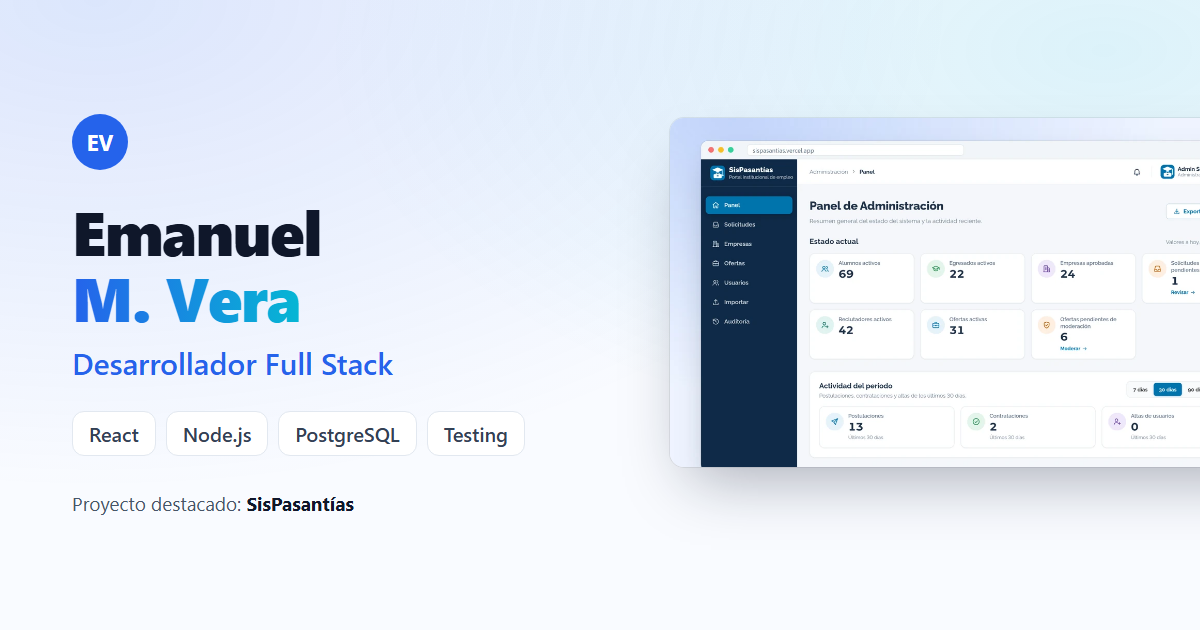
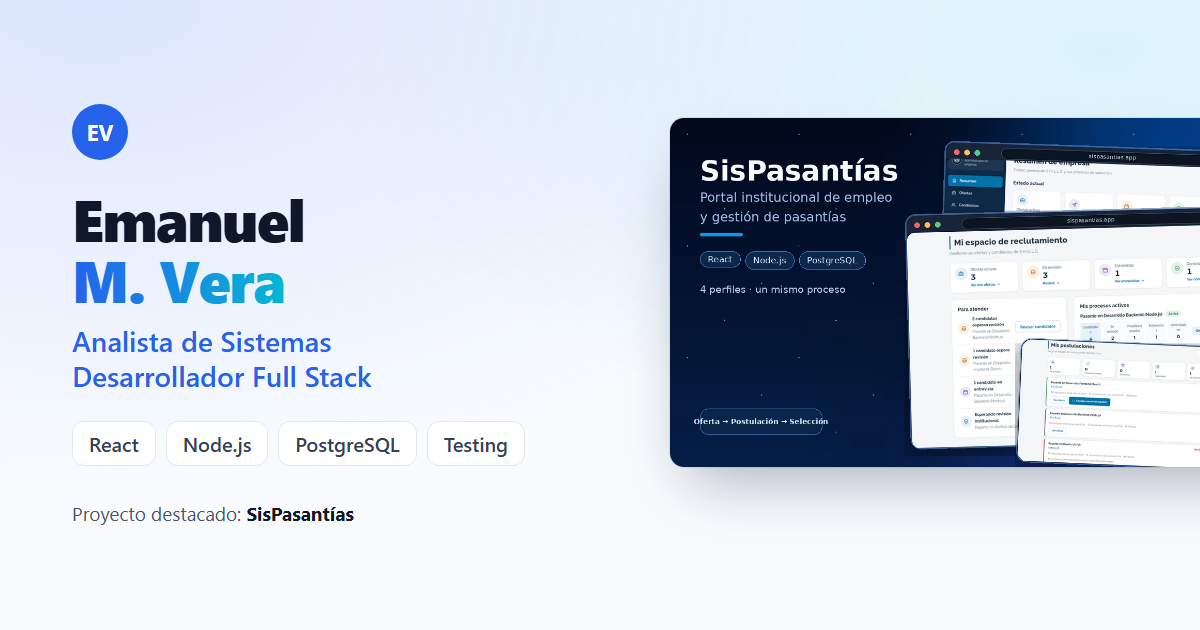
feat(seo): metadata de Analista de Sistemas, sitemap/robots y URL del sitio configurable
- SITE_URL en data/site.ts (NEXT_PUBLIC_SITE_URL, por defecto emanuelmvera.github.io)

- sitemap.xml y robots.txt estáticos generados desde SITE_URL

- title, description y keywords nuevos; imagen OG con el rol actualizado

diff --git a/app/layout.tsx b/app/layout.tsx
@@ -1,16 +1,29 @@
 import type { Metadata } from "next";
 import { Footer } from "@/components/Footer";
 import { Header } from "@/components/Header";
+import { SITE_URL } from "@/data/site";
 import "./globals.css";
 
-const title = "Emanuel M. Vera | Desarrollador Full Stack";
+const title = "Emanuel M. Vera | Analista de Sistemas y Desarrollador Full Stack";
 const description =
-  "Portfolio de Emanuel M. Vera, desarrollador full stack con proyectos en React, Node.js, PostgreSQL, APIs, testing y sistemas web.";
+  "Portfolio de Emanuel M. Vera. Analista de Sistemas y desarrollador Full Stack con experiencia en React, Node.js, PostgreSQL, testing, seguridad y desarrollo de aplicaciones web completas.";
 
 export const metadata: Metadata = {
-  metadataBase: new URL("https://emanuelmvera.github.io"),
+  metadataBase: new URL(SITE_URL),
   title,
   description,
+  keywords: [
+    "Emanuel Vera",
+    "Analista de Sistemas",
+    "Full Stack Developer",
+    "React",
+    "Node.js",
+    "PostgreSQL",
+    "Testing",
+    "Software Development",
+    "Argentina",
+  ],
+  authors: [{ name: "Emanuel M. Vera" }],
   alternates: { canonical: "/" },
   icons: {
     icon: [
@@ -31,7 +44,7 @@ export const metadata: Metadata = {
         url: "/images/og/portfolio-og.png",
         width: 1200,
         height: 630,
-        alt: "Emanuel M. Vera — Desarrollador Full Stack. Proyecto destacado: SisPasantías",
+        alt: "Emanuel M. Vera — Analista de Sistemas y Desarrollador Full Stack. Proyecto destacado: SisPasantías",
       },
     ],
   },

diff --git a/data/site.ts b/data/site.ts
@@ -1,0 +1,6 @@
+// URL pública del sitio. Para migrar a un dominio propio (p. ej. https://emanuelmvera.com)
+// basta con definir NEXT_PUBLIC_SITE_URL en el build; metadata, sitemap y robots la usan.
+export const SITE_URL = (process.env.NEXT_PUBLIC_SITE_URL ?? "https://emanuelmvera.github.io").replace(/\/$/, "");
+
+// Rutas públicas (con barra final, coherente con trailingSlash: true).
+export const SITE_ROUTES = ["/", "/proyectos/sispasantias/"];

diff --git a/app/sitemap.ts b/app/sitemap.ts
@@ -1,0 +1,12 @@
+import type { MetadataRoute } from "next";
+import { SITE_ROUTES, SITE_URL } from "@/data/site";
+
+export const dynamic = "force-static";
+
+export default function sitemap(): MetadataRoute.Sitemap {
+  return SITE_ROUTES.map((route) => ({
+    url: `${SITE_URL}${route}`,
+    changeFrequency: "monthly",
+    priority: route === "/" ? 1 : 0.8,
+  }));
+}

diff --git a/app/robots.ts b/app/robots.ts
@@ -1,0 +1,11 @@
+import type { MetadataRoute } from "next";
+import { SITE_URL } from "@/data/site";
+
+export const dynamic = "force-static";
+
+export default function robots(): MetadataRoute.Robots {
+  return {
+    rules: { userAgent: "*", allow: "/" },
+    sitemap: `${SITE_URL}/sitemap.xml`,
+  };
+}
